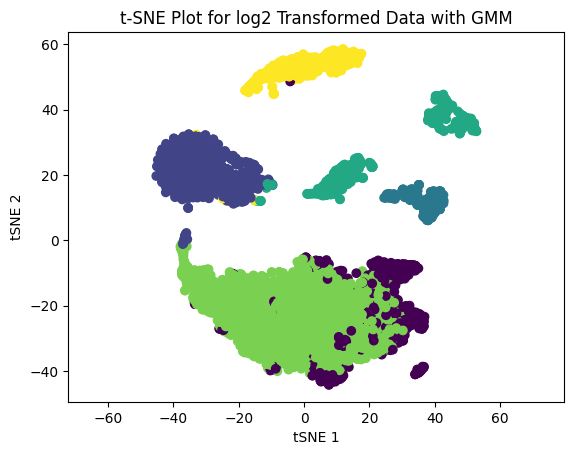
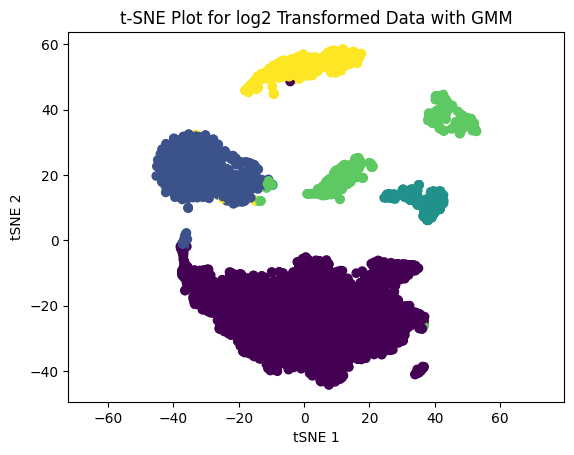
Built site for gh-pages

diff --git a/posts/Naive_scRNA-Seq_analysis/naive_scrnaseq_analysis.html b/posts/Naive_scRNA-Seq_analysis/naive_scrnaseq_analysis.html
@@ -208,7 +208,7 @@ pre > code.sourceCode > span > a:first-child::before { text-decoration: underlin
 
 
 
-<div id="cell-1" class="cell" data-execution_count="67">
+<div id="cell-1" class="cell" data-execution_count="1">
 <details open="" class="code-fold">
 <summary>Code</summary>
 <div class="sourceCode cell-code" id="cb1"><pre class="sourceCode python code-with-copy"><code class="sourceCode python"><span id="cb1-1"><a href="#cb1-1" aria-hidden="true" tabindex="-1"></a><span class="im">import</span> numpy <span class="im">as</span> np</span>
@@ -289,7 +289,7 @@ Downloaded GSM6900730_JLE16_B1_matrix.mtx.gz</code></pre>
 </div>
 </div>
 <p>Now, let’s load the data (is a sparse matrix) with <code>scanpy</code>:</p>
-<div id="cell-6" class="cell" data-execution_count="75">
+<div id="cell-6" class="cell" data-execution_count="2">
 <details open="" class="code-fold">
 <summary>Code</summary>
 <div class="sourceCode cell-code" id="cb4"><pre class="sourceCode python code-with-copy"><code class="sourceCode python"><span id="cb4-1"><a href="#cb4-1" aria-hidden="true" tabindex="-1"></a>scdata <span class="op">=</span> sc.read_10x_mtx(<span class="st">'D:/Data Analysis Statistical Modeling and Computation in Applications/data/scrnaseq data/'</span>,</span>
@@ -304,14 +304,14 @@ Downloaded GSM6900730_JLE16_B1_matrix.mtx.gz</code></pre>
 </div>
 </div>
 <p>Ok, now we are gonna tranform the data with (<code>log(x+1)</code>) due to the presence of genes with extremely high magnitudes of expression in only a few cells.</p>
-<div id="cell-8" class="cell" data-execution_count="74">
+<div id="cell-8" class="cell" data-execution_count="3">
 <details open="" class="code-fold">
 <summary>Code</summary>
 <div class="sourceCode cell-code" id="cb6"><pre class="sourceCode python code-with-copy"><code class="sourceCode python"><span id="cb6-1"><a href="#cb6-1" aria-hidden="true" tabindex="-1"></a>X_sc_transformed <span class="op">=</span> np.log2(X_sc <span class="op">+</span> <span class="dv">1</span>)</span></code><button title="Copy to Clipboard" class="code-copy-button"><i class="bi"></i></button></pre></div>
 </details>
 </div>
 <p>We can use the principal components analysis to get the top components that explains the 85% variability of the data.</p>
-<div id="cell-10" class="cell" data-execution_count="76">
+<div id="cell-10" class="cell" data-execution_count="4">
 <details open="" class="code-fold">
 <summary>Code</summary>
 <div class="sourceCode cell-code" id="cb7"><pre class="sourceCode python code-with-copy"><code class="sourceCode python"><span id="cb7-1"><a href="#cb7-1" aria-hidden="true" tabindex="-1"></a><span class="co"># PCA</span></span>
@@ -341,7 +341,7 @@ Downloaded GSM6900730_JLE16_B1_matrix.mtx.gz</code></pre>
 </div>
 </div>
 <p>Let’s save the number of components on a variable.</p>
-<div id="cell-12" class="cell" data-execution_count="78">
+<div id="cell-12" class="cell" data-execution_count="5">
 <details open="" class="code-fold">
 <summary>Code</summary>
 <div class="sourceCode cell-code" id="cb9"><pre class="sourceCode python code-with-copy"><code class="sourceCode python"><span id="cb9-1"><a href="#cb9-1" aria-hidden="true" tabindex="-1"></a>top_pca_components <span class="op">=</span> np.where(csum <span class="op">&gt;=</span> <span class="fl">0.85</span>)[<span class="dv">0</span>][<span class="dv">0</span>]</span></code><button title="Copy to Clipboard" class="code-copy-button"><i class="bi"></i></button></pre></div>
@@ -350,7 +350,7 @@ Downloaded GSM6900730_JLE16_B1_matrix.mtx.gz</code></pre>
 <section id="analysis-of-perplexities" class="level3">
 <h3 class="anchored" data-anchor-id="analysis-of-perplexities">Analysis of Perplexities</h3>
 <p>For the first part of the analysis, we are gonna analyze the following perplexities: 10,20,30,40,50 and see how this change the output of the t-SNE analysis.</p>
-<div id="cell-15" class="cell" data-execution_count="80">
+<div id="cell-15" class="cell" data-execution_count="6">
 <details open="" class="code-fold">
 <summary>Code</summary>
 <div class="sourceCode cell-code" id="cb10"><pre class="sourceCode python code-with-copy"><code class="sourceCode python"><span id="cb10-1"><a href="#cb10-1" aria-hidden="true" tabindex="-1"></a><span class="co"># let's write a helper function for the tsne</span></span>
@@ -367,7 +367,7 @@ Downloaded GSM6900730_JLE16_B1_matrix.mtx.gz</code></pre>
 <span id="cb10-12"><a href="#cb10-12" aria-hidden="true" tabindex="-1"></a>    ax.set_title(<span class="ss">f't-SNE Plot for log2</span><span class="ch">\n</span><span class="ss">Transformed Data, Perplexity:</span><span class="sc">{</span>per<span class="sc">}</span><span class="ss">'</span>)</span></code><button title="Copy to Clipboard" class="code-copy-button"><i class="bi"></i></button></pre></div>
 </details>
 </div>
-<div id="cell-16" class="cell" data-execution_count="81">
+<div id="cell-16" class="cell" data-execution_count="7">
 <details open="" class="code-fold">
 <summary>Code</summary>
 <div class="sourceCode cell-code" id="cb11"><pre class="sourceCode python code-with-copy"><code class="sourceCode python"><span id="cb11-1"><a href="#cb11-1" aria-hidden="true" tabindex="-1"></a>perplexities <span class="op">=</span> [<span class="dv">10</span>,<span class="dv">20</span>,<span class="dv">30</span>,<span class="dv">40</span>,<span class="dv">50</span>]</span>
@@ -403,18 +403,18 @@ Downloaded GSM6900730_JLE16_B1_matrix.mtx.gz</code></pre>
 <h2 class="anchored" data-anchor-id="number-of-clusters-chosen-from-an-unsupervised-method">Number of Clusters Chosen from an Unsupervised Method</h2>
 <p>For this part of the analysis on the scRNA-Seq data, we are gonna use the Gaussian Mixture algorithm to get predictec clusters on the data. Then, using these clusters as “labels” we can perform a logistic regression and see how the test score changes when we change the number of clusters.</p>
 <p>For this part, we are gonna use the first 50 principal components with the objective of a fast analysis.</p>
-<div id="cell-21" class="cell" data-execution_count="88">
+<div id="cell-21" class="cell" data-execution_count="8">
 <details open="" class="code-fold">
 <summary>Code</summary>
 <div class="sourceCode cell-code" id="cb12"><pre class="sourceCode python code-with-copy"><code class="sourceCode python"><span id="cb12-1"><a href="#cb12-1" aria-hidden="true" tabindex="-1"></a><span class="bu">round</span>(csum[:<span class="dv">50</span>][<span class="op">-</span><span class="dv">1</span>]<span class="op">*</span><span class="dv">100</span>,<span class="dv">2</span>)</span></code><button title="Copy to Clipboard" class="code-copy-button"><i class="bi"></i></button></pre></div>
 </details>
-<div class="cell-output cell-output-display" data-execution_count="88">
+<div class="cell-output cell-output-display" data-execution_count="8">
 <pre><code>48.38</code></pre>
 </div>
 </div>
 <p>With 50 PC’s we achieve ~48% of explained variability.</p>
 <p>Now, let’s perform the clustering with the GMM model from 2 to 20 clusters. Also, let’s plot the BIC (Bayesian Information Criterion) and the Silhouette plot to see how many clusters we can select.</p>
-<div id="cell-24" class="cell" data-execution_count="93">
+<div id="cell-24" class="cell" data-execution_count="9">
 <details open="" class="code-fold">
 <summary>Code</summary>
 <div class="sourceCode cell-code" id="cb14"><pre class="sourceCode python code-with-copy"><code class="sourceCode python"><span id="cb14-1"><a href="#cb14-1" aria-hidden="true" tabindex="-1"></a><span class="co">## Clustering elbow plot GMM</span></span>
@@ -445,8 +445,8 @@ Downloaded GSM6900730_JLE16_B1_matrix.mtx.gz</code></pre>
 </div>
 </div>
 </div>
-<p>The BIC score tells us that between 6 and 7 clusters can be a good choice.</p>
-<div id="cell-26" class="cell" data-execution_count="94">
+<p>The BIC score tells us that between 5, 6 and 7 clusters can be a good choice.</p>
+<div id="cell-26" class="cell" data-execution_count="10">
 <details open="" class="code-fold">
 <summary>Code</summary>
 <div class="sourceCode cell-code" id="cb15"><pre class="sourceCode python code-with-copy"><code class="sourceCode python"><span id="cb15-1"><a href="#cb15-1" aria-hidden="true" tabindex="-1"></a><span class="co">## Silhouette plot</span></span>
@@ -478,20 +478,20 @@ Downloaded GSM6900730_JLE16_B1_matrix.mtx.gz</code></pre>
 </div>
 </div>
 </div>
-<p>The silhouette plot shows that 6, 11 and 18 can be good choices for number of clusters.</p>
-<p>Let’s work with 6, 7, 8, 11 and 18 clusters andd see how these perform.</p>
+<p>The silhouette plot shows that 5, 7, 8 and 9 can be good choices for number of clusters.</p>
+<p>Let’s work with 5, 7, 8 and 9 clusters andd see how these perform.</p>
 <section id="clusters-analysis" class="level3">
 <h3 class="anchored" data-anchor-id="clusters-analysis">Clusters Analysis</h3>
 <div class="tabset-margin-container"></div><div class="panel-tabset">
-<ul class="nav nav-tabs" role="tablist"><li class="nav-item" role="presentation"><a class="nav-link active" id="tabset-1-1-tab" data-bs-toggle="tab" data-bs-target="#tabset-1-1" role="tab" aria-controls="tabset-1-1" aria-selected="true">Number of clusters: 6</a></li><li class="nav-item" role="presentation"><a class="nav-link" id="tabset-1-2-tab" data-bs-toggle="tab" data-bs-target="#tabset-1-2" role="tab" aria-controls="tabset-1-2" aria-selected="false">Number of clusters: 7</a></li><li class="nav-item" role="presentation"><a class="nav-link" id="tabset-1-3-tab" data-bs-toggle="tab" data-bs-target="#tabset-1-3" role="tab" aria-controls="tabset-1-3" aria-selected="false">Number of clusters: 8</a></li><li class="nav-item" role="presentation"><a class="nav-link" id="tabset-1-4-tab" data-bs-toggle="tab" data-bs-target="#tabset-1-4" role="tab" aria-controls="tabset-1-4" aria-selected="false">Number of clusters: 11</a></li></ul>
+<ul class="nav nav-tabs" role="tablist"><li class="nav-item" role="presentation"><a class="nav-link active" id="tabset-1-1-tab" data-bs-toggle="tab" data-bs-target="#tabset-1-1" role="tab" aria-controls="tabset-1-1" aria-selected="true">Number of clusters: 5</a></li><li class="nav-item" role="presentation"><a class="nav-link" id="tabset-1-2-tab" data-bs-toggle="tab" data-bs-target="#tabset-1-2" role="tab" aria-controls="tabset-1-2" aria-selected="false">Number of clusters: 7</a></li><li class="nav-item" role="presentation"><a class="nav-link" id="tabset-1-3-tab" data-bs-toggle="tab" data-bs-target="#tabset-1-3" role="tab" aria-controls="tabset-1-3" aria-selected="false">Number of clusters: 8</a></li><li class="nav-item" role="presentation"><a class="nav-link" id="tabset-1-4-tab" data-bs-toggle="tab" data-bs-target="#tabset-1-4" role="tab" aria-controls="tabset-1-4" aria-selected="false">Number of clusters: 9</a></li></ul>
 <div class="tab-content">
 <div id="tabset-1-1" class="tab-pane active" role="tabpanel" aria-labelledby="tabset-1-1-tab">
-<div id="cell-30" class="cell" data-execution_count="95">
+<div id="cell-30" class="cell" data-execution_count="11">
 <details open="" class="code-fold">
 <summary>Code</summary>
 <div class="sourceCode cell-code" id="cb16"><pre class="sourceCode python code-with-copy"><code class="sourceCode python"><span id="cb16-1"><a href="#cb16-1" aria-hidden="true" tabindex="-1"></a>np.random.seed(<span class="dv">123</span>)</span>
 <span id="cb16-2"><a href="#cb16-2" aria-hidden="true" tabindex="-1"></a></span>
-<span id="cb16-3"><a href="#cb16-3" aria-hidden="true" tabindex="-1"></a>gmm <span class="op">=</span> GaussianMixture(n_components<span class="op">=</span><span class="dv">6</span>, random_state<span class="op">=</span><span class="dv">0</span>, init_params<span class="op">=</span><span class="st">'kmeans'</span>)</span>
+<span id="cb16-3"><a href="#cb16-3" aria-hidden="true" tabindex="-1"></a>gmm <span class="op">=</span> GaussianMixture(n_components<span class="op">=</span><span class="dv">5</span>, random_state<span class="op">=</span><span class="dv">0</span>, init_params<span class="op">=</span><span class="st">'kmeans'</span>)</span>
 <span id="cb16-4"><a href="#cb16-4" aria-hidden="true" tabindex="-1"></a>clusters_gmm <span class="op">=</span> gmm.fit_predict(pca_axes[:,<span class="dv">0</span>:<span class="dv">50</span>])</span>
 <span id="cb16-5"><a href="#cb16-5" aria-hidden="true" tabindex="-1"></a></span>
 <span id="cb16-6"><a href="#cb16-6" aria-hidden="true" tabindex="-1"></a>tsne <span class="op">=</span> TSNE(n_components<span class="op">=</span><span class="dv">2</span>, perplexity<span class="op">=</span><span class="dv">50</span>)</span>
@@ -513,7 +513,7 @@ Downloaded GSM6900730_JLE16_B1_matrix.mtx.gz</code></pre>
 </div>
 </div>
 </div>
-<div id="cell-31" class="cell" data-execution_count="99">
+<div id="cell-31" class="cell" data-execution_count="12">
 <details open="" class="code-fold">
 <summary>Code</summary>
 <div class="sourceCode cell-code" id="cb17"><pre class="sourceCode python code-with-copy"><code class="sourceCode python"><span id="cb17-1"><a href="#cb17-1" aria-hidden="true" tabindex="-1"></a><span class="im">from</span> sklearn.model_selection <span class="im">import</span> train_test_split</span>
@@ -521,7 +521,7 @@ Downloaded GSM6900730_JLE16_B1_matrix.mtx.gz</code></pre>
 <span id="cb17-3"><a href="#cb17-3" aria-hidden="true" tabindex="-1"></a>X_train, X_test, y_train, y_test <span class="op">=</span> train_test_split(X_sc_transformed, clusters_gmm, test_size<span class="op">=</span><span class="fl">0.2</span>, random_state<span class="op">=</span><span class="dv">42</span>)</span></code><button title="Copy to Clipboard" class="code-copy-button"><i class="bi"></i></button></pre></div>
 </details>
 </div>
-<div id="cell-32" class="cell" data-execution_count="100">
+<div id="cell-32" class="cell" data-execution_count="13">
 <details open="" class="code-fold">
 <summary>Code</summary>
 <div class="sourceCode cell-code" id="cb18"><pre class="sourceCode python code-with-copy"><code class="sourceCode python"><span id="cb18-1"><a href="#cb18-1" aria-hidden="true" tabindex="-1"></a>log_reg <span class="op">=</span> LogisticRegressionCV(cv<span class="op">=</span><span class="dv">10</span>,Cs<span class="op">=</span>[<span class="fl">0.01</span>,<span class="fl">0.1</span>,<span class="dv">1</span>,<span class="dv">10</span>],penalty<span class="op">=</span><span class="st">"l1"</span>,solver<span class="op">=</span><span class="st">"liblinear"</span>,multi_class<span class="op">=</span><span class="st">"ovr"</span>)</span>
@@ -532,8 +532,8 @@ Downloaded GSM6900730_JLE16_B1_matrix.mtx.gz</code></pre>
 <span id="cb18-6"><a href="#cb18-6" aria-hidden="true" tabindex="-1"></a><span class="bu">print</span>(<span class="ss">f"Test score: </span><span class="sc">{</span>log_reg<span class="sc">.</span>score(X_test,y_test)<span class="sc">}</span><span class="ss">"</span>)</span></code><button title="Copy to Clipboard" class="code-copy-button"><i class="bi"></i></button></pre></div>
 </details>
 <div class="cell-output cell-output-stdout">
-<pre><code>Train score: 0.9932088285229203
-Test score: 0.9311348205625606</code></pre>
+<pre><code>Train score: 1.0
+Test score: 0.988360814742968</code></pre>
 </div>
 </div>
 </div>
@@ -638,12 +638,12 @@ Test score: 0.92725509214355</code></pre>
 </div>
 </div>
 <div id="tabset-1-4" class="tab-pane" role="tabpanel" aria-labelledby="tabset-1-4-tab">
-<div id="cell-42" class="cell" data-execution_count="107">
+<div id="cell-42" class="cell" data-execution_count="14">
 <details open="" class="code-fold">
 <summary>Code</summary>
 <div class="sourceCode cell-code" id="cb28"><pre class="sourceCode python code-with-copy"><code class="sourceCode python"><span id="cb28-1"><a href="#cb28-1" aria-hidden="true" tabindex="-1"></a>np.random.seed(<span class="dv">123</span>)</span>
 <span id="cb28-2"><a href="#cb28-2" aria-hidden="true" tabindex="-1"></a></span>
-<span id="cb28-3"><a href="#cb28-3" aria-hidden="true" tabindex="-1"></a>gmm <span class="op">=</span> GaussianMixture(n_components<span class="op">=</span><span class="dv">11</span>, random_state<span class="op">=</span><span class="dv">0</span>, init_params<span class="op">=</span><span class="st">'kmeans'</span>)</span>
+<span id="cb28-3"><a href="#cb28-3" aria-hidden="true" tabindex="-1"></a>gmm <span class="op">=</span> GaussianMixture(n_components<span class="op">=</span><span class="dv">9</span>, random_state<span class="op">=</span><span class="dv">0</span>, init_params<span class="op">=</span><span class="st">'kmeans'</span>)</span>
 <span id="cb28-4"><a href="#cb28-4" aria-hidden="true" tabindex="-1"></a>clusters_gmm <span class="op">=</span> gmm.fit_predict(pca_axes[:,<span class="dv">0</span>:<span class="dv">50</span>])</span>
 <span id="cb28-5"><a href="#cb28-5" aria-hidden="true" tabindex="-1"></a></span>
 <span id="cb28-6"><a href="#cb28-6" aria-hidden="true" tabindex="-1"></a>tsne <span class="op">=</span> TSNE(n_components<span class="op">=</span><span class="dv">2</span>, perplexity<span class="op">=</span><span class="dv">50</span>)</span>
@@ -665,13 +665,13 @@ Test score: 0.92725509214355</code></pre>
 </div>
 </div>
 </div>
-<div id="cell-43" class="cell" data-execution_count="108">
+<div id="cell-43" class="cell" data-execution_count="15">
 <details open="" class="code-fold">
 <summary>Code</summary>
 <div class="sourceCode cell-code" id="cb29"><pre class="sourceCode python code-with-copy"><code class="sourceCode python"><span id="cb29-1"><a href="#cb29-1" aria-hidden="true" tabindex="-1"></a>X_train, X_test, y_train, y_test <span class="op">=</span> train_test_split(X_sc_transformed, clusters_gmm, test_size<span class="op">=</span><span class="fl">0.2</span>, random_state<span class="op">=</span><span class="dv">42</span>)</span></code><button title="Copy to Clipboard" class="code-copy-button"><i class="bi"></i></button></pre></div>
 </details>
 </div>
-<div id="cell-44" class="cell" data-execution_count="109">
+<div id="cell-44" class="cell" data-execution_count="16">
 <details open="" class="code-fold">
 <summary>Code</summary>
 <div class="sourceCode cell-code" id="cb30"><pre class="sourceCode python code-with-copy"><code class="sourceCode python"><span id="cb30-1"><a href="#cb30-1" aria-hidden="true" tabindex="-1"></a>log_reg <span class="op">=</span> LogisticRegressionCV(cv<span class="op">=</span><span class="dv">10</span>,Cs<span class="op">=</span>[<span class="fl">0.01</span>,<span class="fl">0.1</span>,<span class="dv">1</span>,<span class="dv">10</span>],penalty<span class="op">=</span><span class="st">"l1"</span>,solver<span class="op">=</span><span class="st">"liblinear"</span>,multi_class<span class="op">=</span><span class="st">"ovr"</span>)</span>
@@ -682,8 +682,8 @@ Test score: 0.92725509214355</code></pre>
 <span id="cb30-6"><a href="#cb30-6" aria-hidden="true" tabindex="-1"></a><span class="bu">print</span>(<span class="ss">f"Test score: </span><span class="sc">{</span>log_reg<span class="sc">.</span>score(X_test,y_test)<span class="sc">}</span><span class="ss">"</span>)</span></code><button title="Copy to Clipboard" class="code-copy-button"><i class="bi"></i></button></pre></div>
 </details>
 <div class="cell-output cell-output-stdout">
-<pre><code>Train score: 0.9970894979383944
-Test score: 0.8079534432589719</code></pre>
+<pre><code>Train score: 1.0
+Test score: 0.9204655674102813</code></pre>
 </div>
 </div>
 </div>
@@ -1118,7 +1118,7 @@ window.document.addEventListener("DOMContentLoaded", function (event) {
 </div>
   </div>
 </footer>
-<script>var lightboxQuarto = GLightbox({"openEffect":"zoom","selector":".lightbox","descPosition":"bottom","loop":false,"closeEffect":"zoom"});
+<script>var lightboxQuarto = GLightbox({"descPosition":"bottom","loop":false,"closeEffect":"zoom","openEffect":"zoom","selector":".lightbox"});
 window.onload = () => {
   lightboxQuarto.on('slide_before_load', (data) => {
     const { slideIndex, slideNode, slideConfig, player, trigger } = data;

diff --git a/projects.html b/projects.html
@@ -224,7 +224,7 @@ window.Quarto = {
 
 <div class="quarto-listing quarto-listing-container-default" id="listing-listing">
 <div class="list quarto-listing-default">
-<div class="quarto-post image-right" data-index="0" data-listing-file-modified-sort="1715180084144" data-listing-reading-time-sort="3" data-listing-word-count-sort="460">
+<div class="quarto-post image-right" data-index="0" data-listing-file-modified-sort="1715185728269" data-listing-reading-time-sort="3" data-listing-word-count-sort="461">
 <div class="thumbnail">
 <p><a href="./posts/Naive_scRNA-Seq_analysis/naive_scrnaseq_analysis.html" class="no-external"></a></p><a href="./posts/Naive_scRNA-Seq_analysis/naive_scrnaseq_analysis.html" class="no-external">
 <p class="card-img-top"><img src="posts/Naive_scRNA-Seq_analysis/naive_scrnaseq_analysis_files/figure-html/cell-6-output-1.png"  class="thumbnail-image card-img"/></p>
@@ -246,7 +246,7 @@ window.Quarto = {
 </a>
 </div>
 </div>
-<div class="quarto-post image-right" data-index="1" data-listing-file-modified-sort="1715180084144" data-listing-reading-time-sort="1" data-listing-word-count-sort="1">
+<div class="quarto-post image-right" data-index="1" data-listing-file-modified-sort="1715185728269" data-listing-reading-time-sort="1" data-listing-word-count-sort="1">
 <div class="thumbnail">
 <p><a href="./posts/test/aa.html" class="no-external"></a></p><a href="./posts/test/aa.html" class="no-external">
 <p class="card-img-top"><img src="posts/test/under_construction.jpg" alt="Construction"  class="thumbnail-image card-img"/></p>
@@ -273,7 +273,7 @@ window.Quarto = {
 </a>
 </div>
 </div>
-<div class="quarto-post image-right" data-index="2" data-listing-file-modified-sort="1715180084144" data-listing-reading-time-sort="3" data-listing-word-count-sort="571">
+<div class="quarto-post image-right" data-index="2" data-listing-file-modified-sort="1715185728269" data-listing-reading-time-sort="3" data-listing-word-count-sort="571">
 <div class="thumbnail">
 <p><a href="./posts/Regression_and_Gradient_Descent/regression_and_gradient_descent.html" class="no-external"></a></p><a href="./posts/Regression_and_Gradient_Descent/regression_and_gradient_descent.html" class="no-external">
 <p class="card-img-top"><img src="posts/Regression_and_Gradient_Descent/regression_and_gradient_descent_files/figure-html/cell-3-output-1.png"  class="thumbnail-image card-img"/></p>

diff --git a/posts/test/aa.html b/posts/test/aa.html
@@ -161,7 +161,7 @@ ul.task-list li input[type="checkbox"] {
 
 <div class="quarto-figure quarto-figure-center">
 <figure class="figure">
-<p><a href="under_construction.jpg" class="lightbox" data-glightbox="description: .lightbox-desc-1" data-gallery="quarto-lightbox-gallery-1" title="Construction"><img src="under_construction.jpg" class="img-fluid figure-img" alt="Construction"></a></p>
+<p><a href="under_construction.jpg" class="lightbox" data-gallery="quarto-lightbox-gallery-1" data-glightbox="description: .lightbox-desc-1" title="Construction"><img src="under_construction.jpg" class="img-fluid figure-img" alt="Construction"></a></p>
 <figcaption>Construction</figcaption>
 </figure>
 </div>
@@ -595,7 +595,7 @@ window.document.addEventListener("DOMContentLoaded", function (event) {
 </div>
   </div>
 </footer>
-<script>var lightboxQuarto = GLightbox({"selector":".lightbox","closeEffect":"zoom","loop":false,"descPosition":"bottom","openEffect":"zoom"});
+<script>var lightboxQuarto = GLightbox({"loop":false,"descPosition":"bottom","closeEffect":"zoom","selector":".lightbox","openEffect":"zoom"});
 window.onload = () => {
   lightboxQuarto.on('slide_before_load', (data) => {
     const { slideIndex, slideNode, slideConfig, player, trigger } = data;

diff --git a/posts/Regression_and_Gradient_Descent/regression_and_gradient_descent.html b/posts/Regression_and_Gradient_Descent/regression_and_gradient_descent.html
@@ -1092,7 +1092,7 @@ window.document.addEventListener("DOMContentLoaded", function (event) {
 </div>
   </div>
 </footer>
-<script>var lightboxQuarto = GLightbox({"selector":".lightbox","closeEffect":"zoom","descPosition":"bottom","loop":false,"openEffect":"zoom"});
+<script>var lightboxQuarto = GLightbox({"loop":false,"closeEffect":"zoom","selector":".lightbox","descPosition":"bottom","openEffect":"zoom"});
 window.onload = () => {
   lightboxQuarto.on('slide_before_load', (data) => {
     const { slideIndex, slideNode, slideConfig, player, trigger } = data;

diff --git a/bioinformatics.html b/bioinformatics.html
@@ -654,7 +654,7 @@ window.document.addEventListener("DOMContentLoaded", function (event) {
 </div>
   </div>
 </footer>
-<script>var lightboxQuarto = GLightbox({"selector":".lightbox","closeEffect":"zoom","openEffect":"zoom","loop":false,"descPosition":"bottom"});
+<script>var lightboxQuarto = GLightbox({"openEffect":"zoom","selector":".lightbox","descPosition":"bottom","loop":false,"closeEffect":"zoom"});
 window.onload = () => {
   lightboxQuarto.on('slide_before_load', (data) => {
     const { slideIndex, slideNode, slideConfig, player, trigger } = data;
